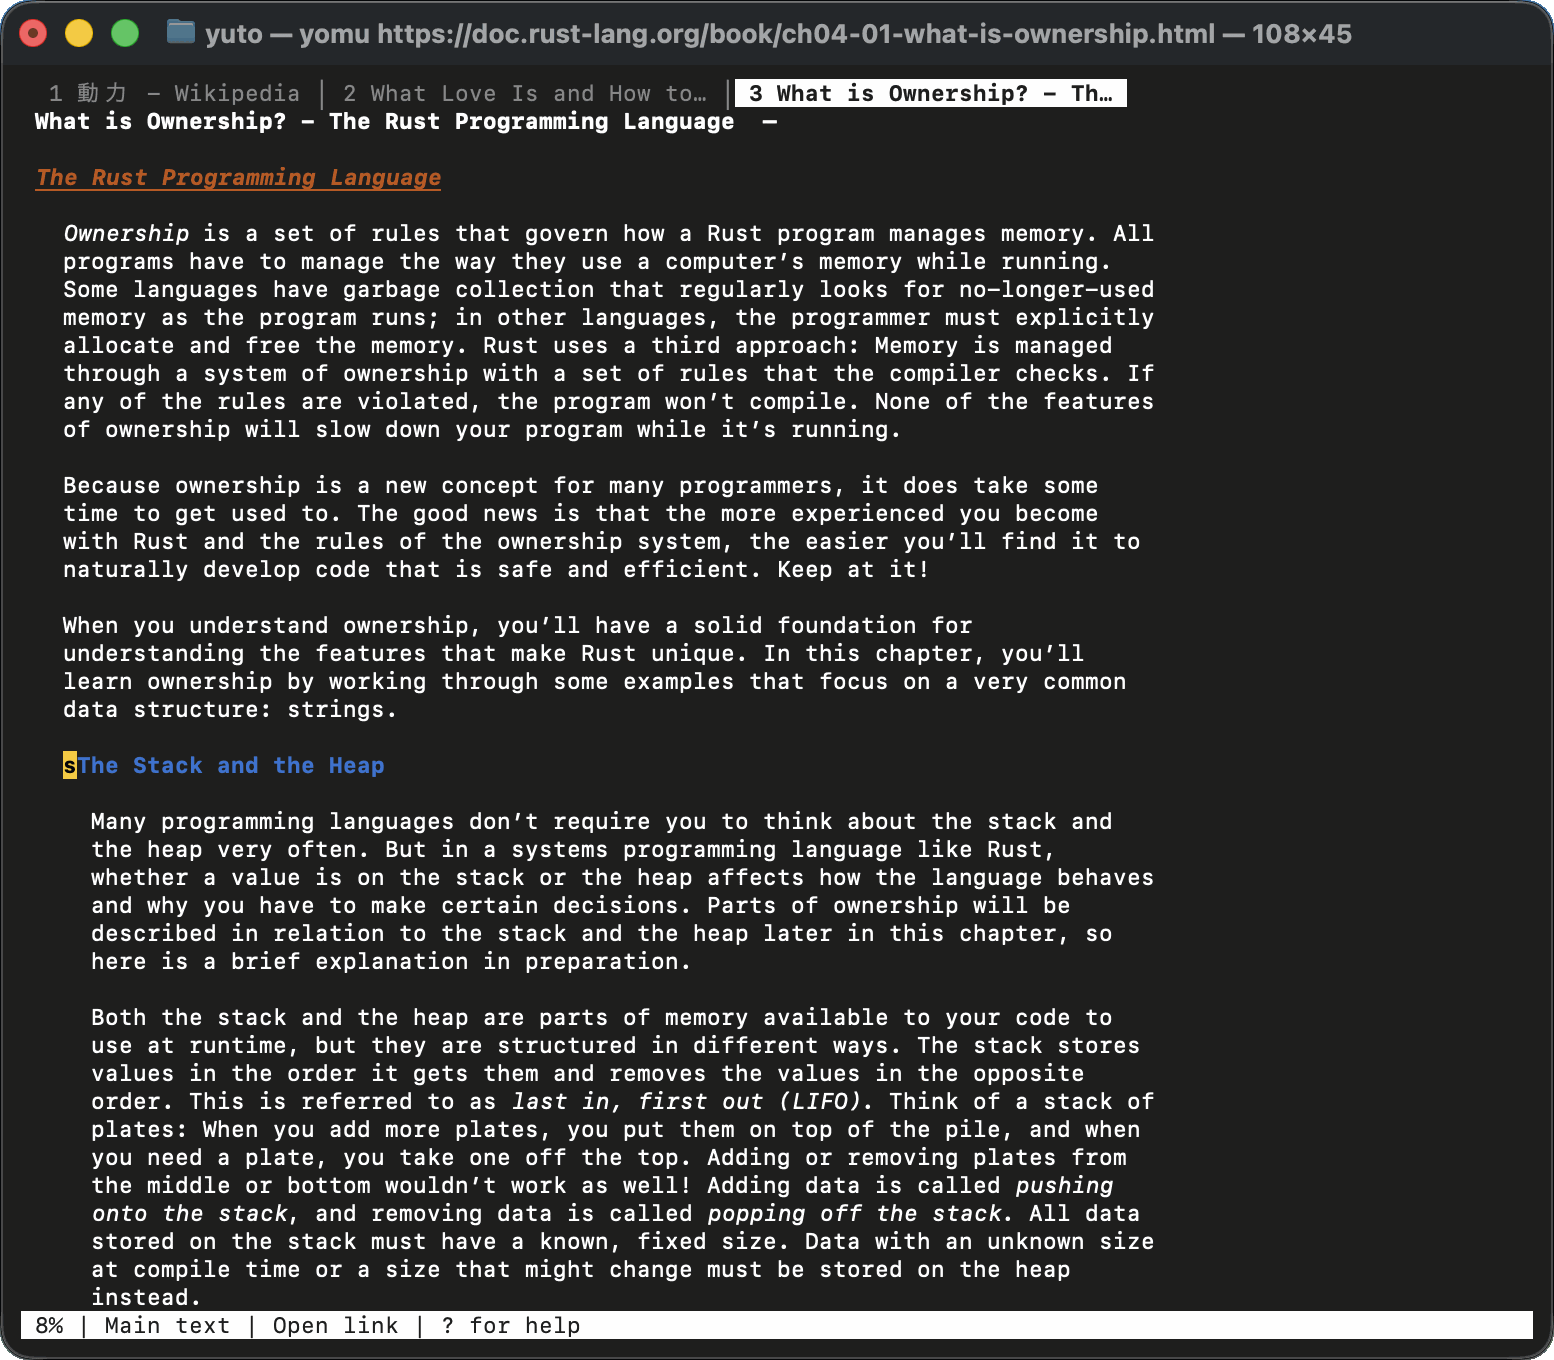
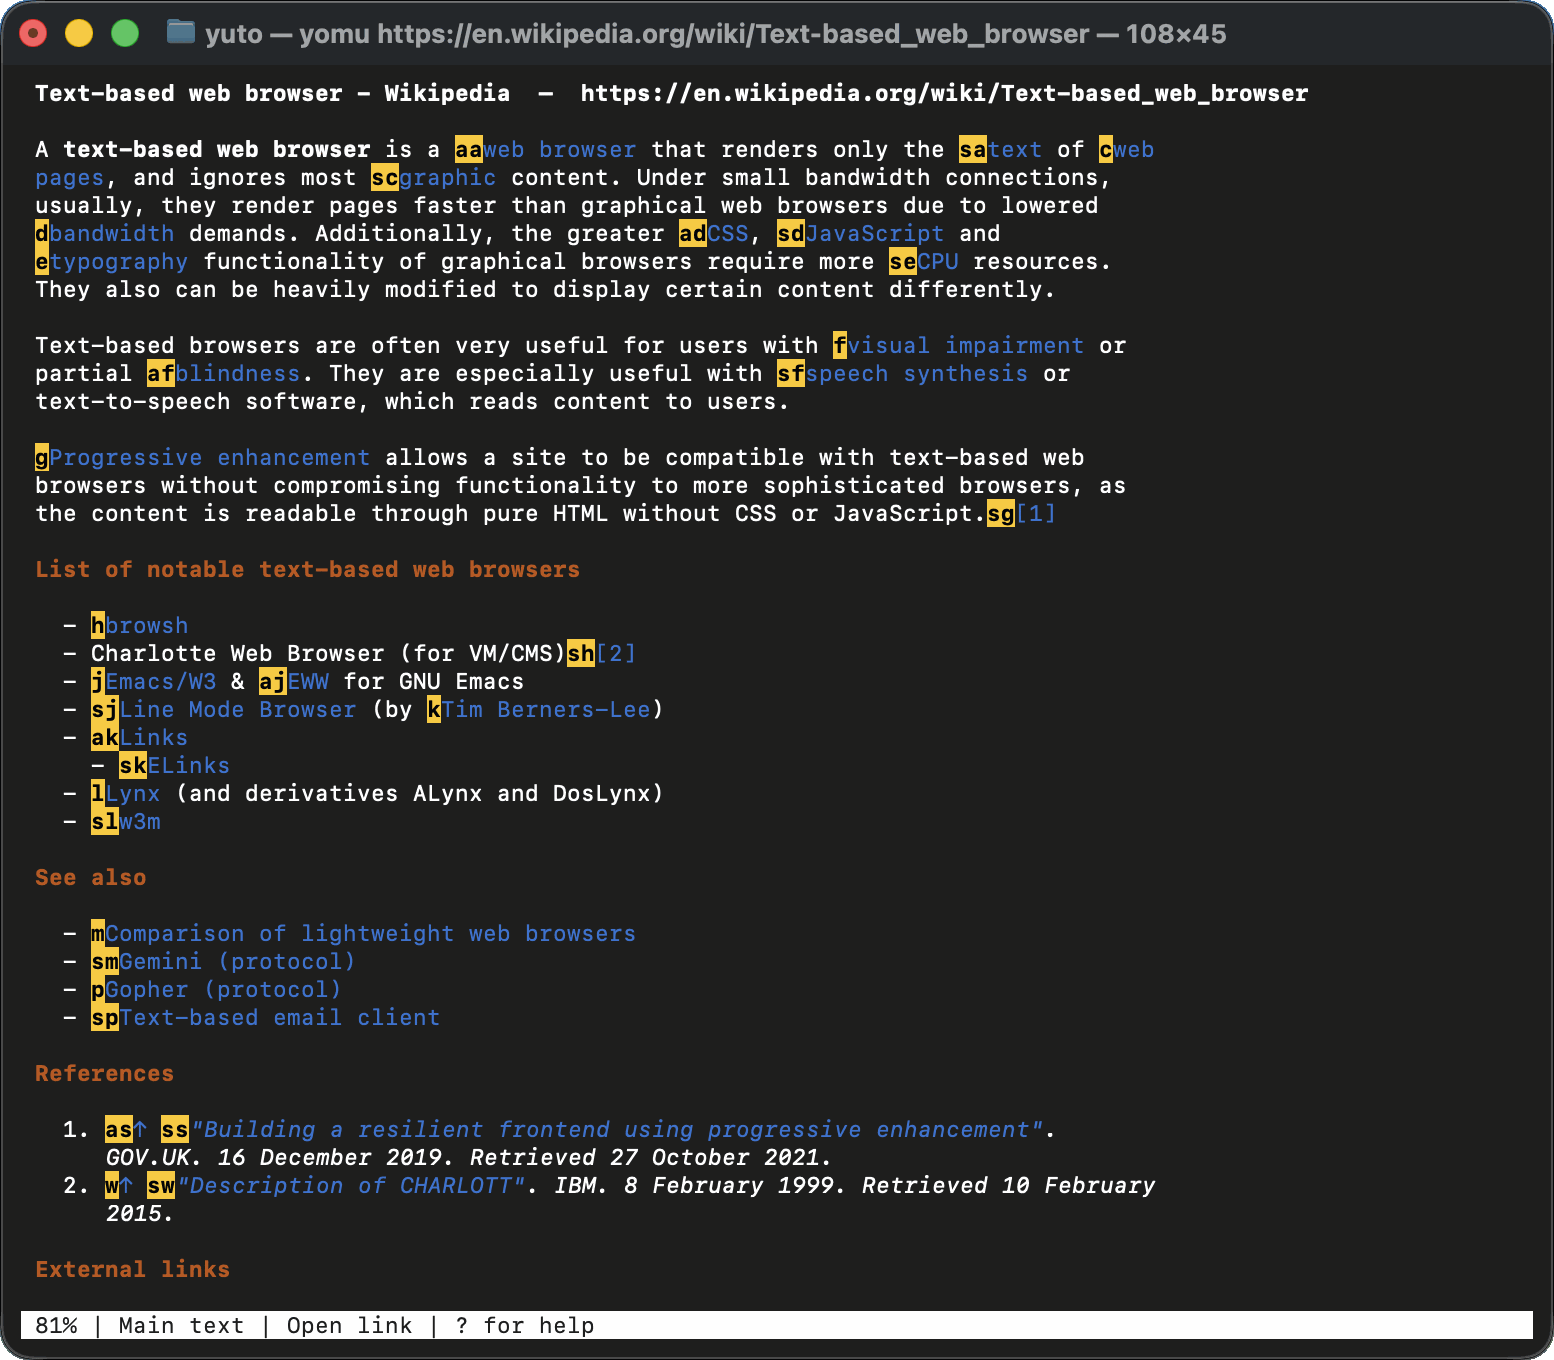
README の冒頭の画像を、リンクのラベルが並ぶ画面にする
英語版 Wikipedia の「Text-based web browser」を開いて f を押した画面に差し替え、本文抽出と Vimium 式の操作が
1 枚で伝わるようにする。画像の下に出典と CC BY-SA 4.0 を書く。

Changed region(s): [[0.0, 0.0, 0.8649, 0.9882]]

diff --git a/README.ja.md b/README.ja.md
@@ -6,7 +6,9 @@
 ページからナビゲーションや広告、フッターを取り除いて本文だけを抜き出し、見出しや箇条書き、表、コードの構造を保ったまま表示します。
 Vimium と同じキーで操作でき、手元で動く音声合成で読み上げたり、原文を残したまま翻訳したりできます。
 
-<img src="docs/images/main-text.png" width="760" alt="The Rust Programming Language の章を、yomu で本文だけ表示したところ">
+<img src="docs/images/main-text.png" width="760" alt="英語版 Wikipedia の記事 Text-based web browser を yomu で表示し、すべてのリンクにラベルを出したところ">
+
+<sub>画像のページは、英語版 Wikipedia の「[Text-based web browser](https://en.wikipedia.org/wiki/Text-based_web_browser)」です([CC BY-SA 4.0](https://creativecommons.org/licenses/by-sa/4.0/))。</sub>
 
 ## 特徴
 

diff --git a/README.ko.md b/README.ko.md
@@ -6,7 +6,9 @@
 페이지에서 내비게이션, 광고, 푸터를 걷어 내고 본문만 뽑아서, 제목, 목록, 표, 코드의 구조를 그대로 살려 보여 줍니다.
 Vimium과 같은 키로 조작할 수 있고, 내 컴퓨터에서 돌아가는 음성 합성으로 페이지를 읽어 주거나 원문을 남긴 채 번역할 수도 있습니다.
 
-<img src="docs/images/main-text.png" width="760" alt="The Rust Programming Language의 한 장을 yomu로 본문만 표시한 화면">
+<img src="docs/images/main-text.png" width="760" alt="영어 위키백과 문서 Text-based web browser를 yomu로 표시하고 모든 링크에 라벨을 띄운 화면">
+
+<sub>화면의 페이지는 영어 위키백과의 「[Text-based web browser](https://en.wikipedia.org/wiki/Text-based_web_browser)」입니다([CC BY-SA 4.0](https://creativecommons.org/licenses/by-sa/4.0/)).</sub>
 
 ## 특징
 

diff --git a/README.md b/README.md
@@ -6,7 +6,9 @@ English | [日本語](README.ja.md) | [한국어](README.ko.md)
 It pulls the main text out of a page and shows it with its headings, lists, tables and code intact, without the navigation, ads and footers around it.
 You move around with Vimium-style keys, can have the page read aloud by a local text-to-speech model, and can translate it while keeping the original in view.
 
-<img src="docs/images/main-text.png" width="760" alt="yomu showing the main text of a chapter of The Rust Programming Language">
+<img src="docs/images/main-text.png" width="760" alt="yomu showing the Wikipedia article Text-based web browser, with a label on every link">
+
+<sub>The page shown is [Text-based web browser](https://en.wikipedia.org/wiki/Text-based_web_browser) on English Wikipedia, licensed under [CC BY-SA 4.0](https://creativecommons.org/licenses/by-sa/4.0/).</sub>
 
 ## Features
 
